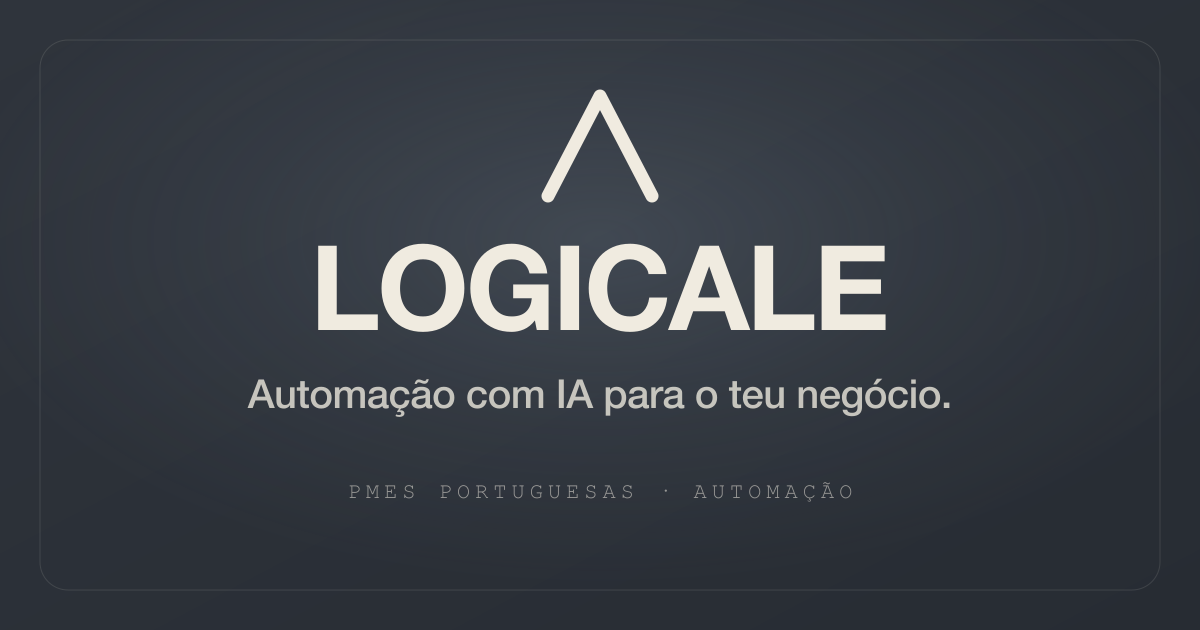
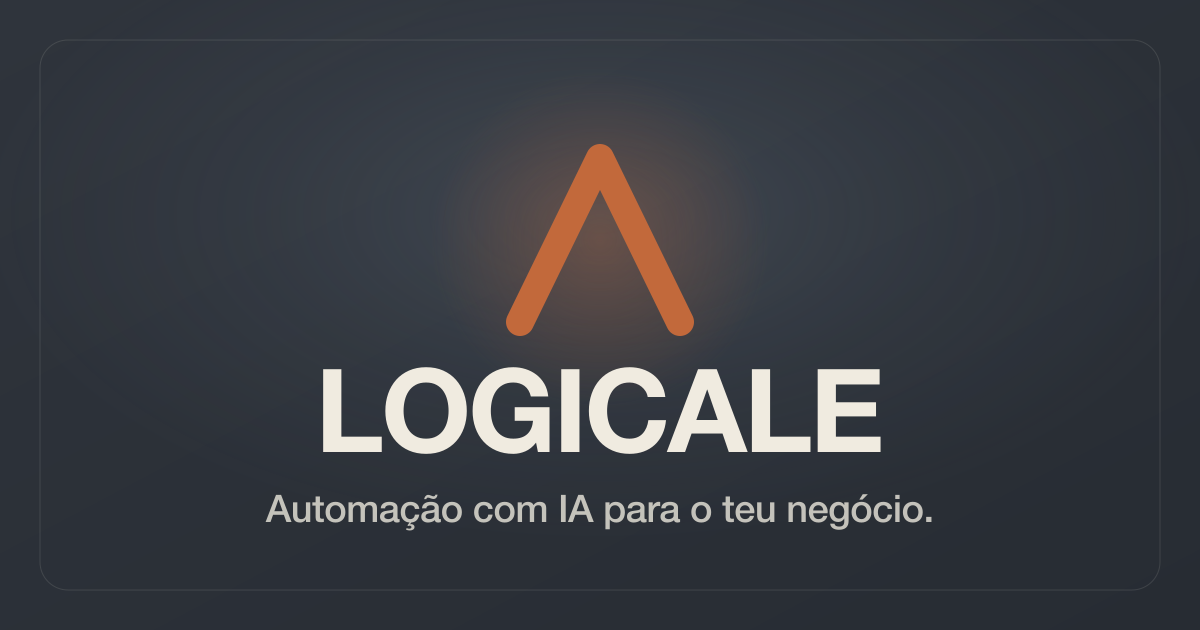
feat(og): copper lambda OG image on grafite bg, version url to bust cache

Changed region(s): [[0.2467, 0.1508, 0.74, 0.5429], [0.185, 0.573, 0.8017, 0.7238], [0.2158, 0.754, 0.7708, 0.8444]]

diff --git a/index.html b/index.html
@@ -14,14 +14,14 @@
 <meta property="og:url" content="https://www.logicale.pt/" />
 <meta property="og:title" content="LOGICALE — Automação com IA para o teu negócio" />
 <meta property="og:description" content="Identificamos as tarefas repetitivas que te roubam horas e construímos agentes que as tratam por ti. Para PMEs portuguesas." />
-<meta property="og:image" content="https://www.logicale.pt/assets/og-image.png" />
+<meta property="og:image" content="https://www.logicale.pt/assets/og-image.png?v=2" />
 <meta property="og:image:width" content="1200" />
 <meta property="og:image:height" content="630" />
 <meta property="og:image:alt" content="LOGICALE — Automação com IA para o teu negócio." />
 <meta name="twitter:card" content="summary_large_image" />
 <meta name="twitter:title" content="LOGICALE — Automação com IA para o teu negócio" />
 <meta name="twitter:description" content="Identificamos as tarefas repetitivas que te roubam horas e construímos agentes que as tratam por ti. Para PMEs portuguesas." />
-<meta name="twitter:image" content="https://www.logicale.pt/assets/og-image.png" />
+<meta name="twitter:image" content="https://www.logicale.pt/assets/og-image.png?v=2" />
 <meta name="theme-color" content="#2F343C" />
 <meta name="robots" content="index, follow, max-image-preview:large" />
 <meta property="og:image:type" content="image/png" />
